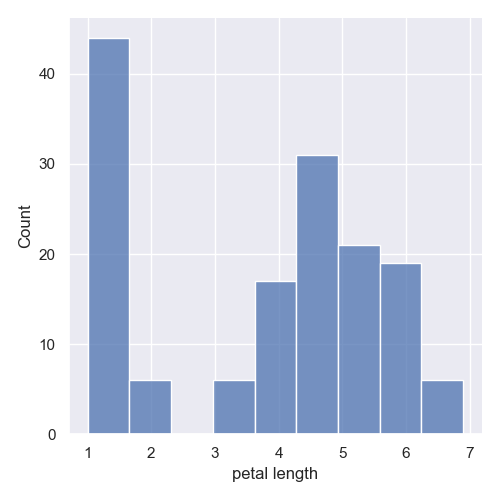
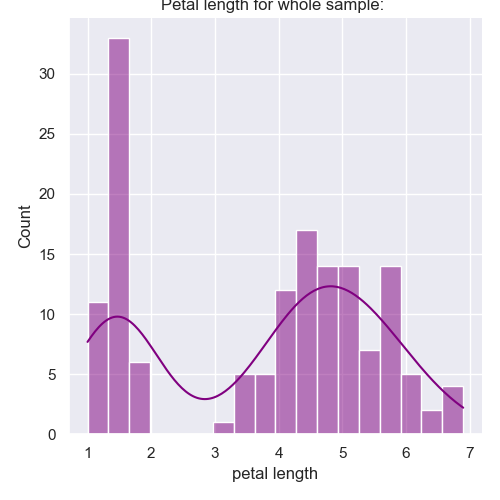
Addition of a four histograms, one for each trait measured in the dataset, with each histogram colour-coded to show the comparitive distributions for each variety of Iris

diff --git a/analysis.py b/analysis.py
@@ -8,7 +8,6 @@ import seaborn as sns
 # to redirect output from command line onto a text file, we need to import the sys module.
 import sys
 
-
 # add headings to the columns
 # reference: https://realpython.com/python-csv/#reading-csv-files-with-pandas 
 df = pd.read_csv("iris.data.csv", names=['sepal length', 'sepal width', 'petal length', 'petal width', 'variety'])
@@ -17,23 +16,23 @@ df = pd.read_csv("iris.data.csv", names=['sepal length', 'sepal width', 'petal l
 # To print the summary statistics to a file, we create a function where all of the print statements contained within get printed to
 # the text file when the function is called. This will allow us to just print the summary statistics to the text file and none of the
 # other output from the script which will be in the terminal.
-def summary_statistics():
+# def summary_statistics():
 
 
 # The function sys.stdout allows us to redirect the print statements contained within it to a text file
 # Reference: https://stackoverflow.com/questions/23364096/how-to-write-output-of-terminal-to-file
-    f = open("summary statistics.txt", 'w')
-    sys.stdout = f
+#    f = open("summary statistics.txt", 'w')
+#    sys.stdout = f
 
-    summary_stats = df.describe()
+#    summary_stats = df.describe()
     
     
 # This firstly transposes the output of the .describe() method, to make it easier to read it when it is printed out. 
 # References: https://numpy.org/doc/stable/reference/generated/numpy.transpose.html 
 
 
-    transpose_summary = np.transpose(summary_stats)
-    summary= transpose_summary
+#    transpose_summary = np.transpose(summary_stats)
+#    summary= transpose_summary
 
     
 # The groupyby function in pandas allows us to split the dataframe into groups separated according to the data in the 
@@ -41,91 +40,82 @@ def summary_statistics():
 # We can then generate summary statistics for each class of Iris in the dataset.
 # Reference: https://www.geeksforgeeks.org/python-pandas-dataframe-groupby/ 
     
-    summary_stats_by_class = df.groupby("variety").describe()
-    transpose_summary_class = np.transpose(summary_stats_by_class)
-    summary_by_class= transpose_summary_class
+#    summary_stats_by_class = df.groupby("variety").describe()
+#    transpose_summary_class = np.transpose(summary_stats_by_class)
+#    summary_by_class= transpose_summary_class
 
 
 # I have added calculations for the Coefficient of Variation summary statistic to the outputted text file, 
 # because this statistic isn't provided directly by the .decribe() method, but I feel this is a useful statistic to 
-# provide a high-level picture of which traits are the most variable within the population as a whole.
+# provide a high-level picture of which traits are the most variable within the sample as a whole.
 
-    meansl = df["sepal length"].mean()
-    sdsl = df["sepal length"].std()
-    meansw = df["sepal width"].mean()
-    sdsw = df["sepal width"].std()
-    meanpl = df["petal length"].mean()
-    sdpl = df["petal length"].std()
-    meanpw = df["petal width"].mean()
-    sdpw = df["petal width"].std()
+#    meansl = df["sepal length"].mean()
+#    sdsl = df["sepal length"].std()
+#    meansw = df["sepal width"].mean()
+#    sdsw = df["sepal width"].std()
+#    meanpl = df["petal length"].mean()
+#    sdpl = df["petal length"].std()
+#    meanpw = df["petal width"].mean()
+#    sdpw = df["petal width"].std()
     
 
-    print("Summary statistics for the four variables measured for the Iris data set")
-    print("\n\n")
-    print(summary)
-    print("\n\n")
-    print("Here are some summary statistics for each class of Iris flower: \n")
-    print(summary_by_class)
-    print("\n")
-    print("The coefficient of variation for each trait is as follows: \n")
-    print(f'Sepal length: CoV = {sdsl/meansl}')
-    print(f'Sepal width: CoV = {sdsw/meansw}')
-    print(f'Petal length: CoV = {sdpl/meanpl}')
-    print(f'Petal width: CoV = {sdpw/meanpw}')
-    print("\n\n")
-    print("For a description of these summary statistics, please see the README file for this project.")
+#    print("Summary statistics for the four variables measured for the Iris data set")
+#    print("\n\n")
+#    print(summary)
+#    print("\n\n")
+#    print("Here are some summary statistics for each class of Iris flower: \n")
+#    print(summary_by_class)
+#    print("\n")
+#    print("The coefficient of variation for each trait within the sample as a whole is as follows: \n")
+#    print(f'Sepal length: CoV = {sdsl/meansl}')
+#    print(f'Sepal width: CoV = {sdsw/meansw}')
+#    print(f'Petal length: CoV = {sdpl/meanpl}')
+#    print(f'Petal width: CoV = {sdpw/meanpw}')
+#    print("\n\n")
+#    print("For a description of these summary statistics, please see the README file for this project.")
 
-    f.close()
+#    f.close()
 
 # this calls the function defined above
-summary_statistics()
+# summary_statistics()
 
 
 
-# the first ten rows of the dataframe
-# print(df.head(10))
 
-# general overview of dataframe
-# print(df.info())
-
-# the index labels of the dataframe
-# print(df.index)
-
-# the column lables of the dataframe
-# print(df.columns)
-
-# numpy representation of the dataframe
-# print(df.values)
-
-# size of dataframe (number of elements in it)
-# print(df.size)
-
-# summary statistics
-# print(df.describe())
-
-# df.hist(bins = 20)
-# plt.savefig('histograms.png')
-# plt.show()
-
-#df.hist(x = 'petal length', y = 'iris setosa')
-#plt.show()
+# The below section of this script generates the histograms for the project
+# sns.set() imposes one of five general themes on to the histograms.
+# sns.displot creates each histogram; here we pass in the Dataframe which we will generate the histogram from,
+# specify the column to be analysed (eg. 'sepal length'), and select the number of bins and colour for the graph. 
+# I used the 'hue' argument to cause the data in the histogram to be coloured according to what variety of Iris flower
+# the data relates to. This allows us to compare the distribution of each trait for each variety of Iris flower.
+# The 'stack' argument causes the data to overlap in a stacked fashion, rather than layering them over each other transparently,
+# which I think makes it harder to compare the data.
+# Reference: https://seaborn.pydata.org/tutorial/distributions.html?highlight=histogram
 
 sns.set(style="darkgrid")
-sns.displot(df, x = 'petal length', kde = False)
-plt.savefig('petal_length_hist.png')
-plt.show()
 
-#sns.set(style="darkgrid")
-#sns.displot(df, x = 'petal width', kde = False)
-#plt.savefig('petal_width_hist.png')
 
-#sns.set(style="darkgrid")
-#sns.displot(df, x = 'sepal length', kde = False)
-#plt.savefig('sepal_length_hist.png')
+sepal_length = sns.displot(df, x ="sepal length", bins = 20, hue ="variety", multiple = "stack").set(title = "Sepal length for each Iris variety", xlabel = "Sepal length in cm")
+# sns.move_legend(sepal_length, "upper left", bbox_to_anchor=(1, 1))
+plt.tight_layout()
+plt.savefig('sepal_length_varieties.png')
 
-#sns.set(style="darkgrid")
-#sns.displot(df, x = 'sepal width', kde = False)
-#plt.savefig('sepal_width_hist.png')
+
+sepal_width = sns.displot(df, x ="sepal width", bins = 20, hue ="variety", multiple = "stack").set(title = "Sepal width for each Iris variety", xlabel = "Sepal width in cm")
+plt.tight_layout()
+plt.savefig('sepal_width_varieties.png')
+
+
+sns.displot(df, x ="petal length", bins = 20, hue ="variety", multiple = "stack").set(title = "Petal length for each Iris variety", xlabel = "Petal length in cm")
+plt.tight_layout()
+plt.savefig('petal_length_varieties.png')
+
+
+sns.displot(df, x ="petal width", bins = 20, hue ="variety", multiple = "stack").set(title = "Petal width for each Iris variety", xlabel = "Petal width in cm")
+plt.tight_layout()
+plt.savefig('petal_width_varieties.png')
+
+
 
 #sns.pairplot(df)
 #plt.savefig('iris_pairplot.png')
